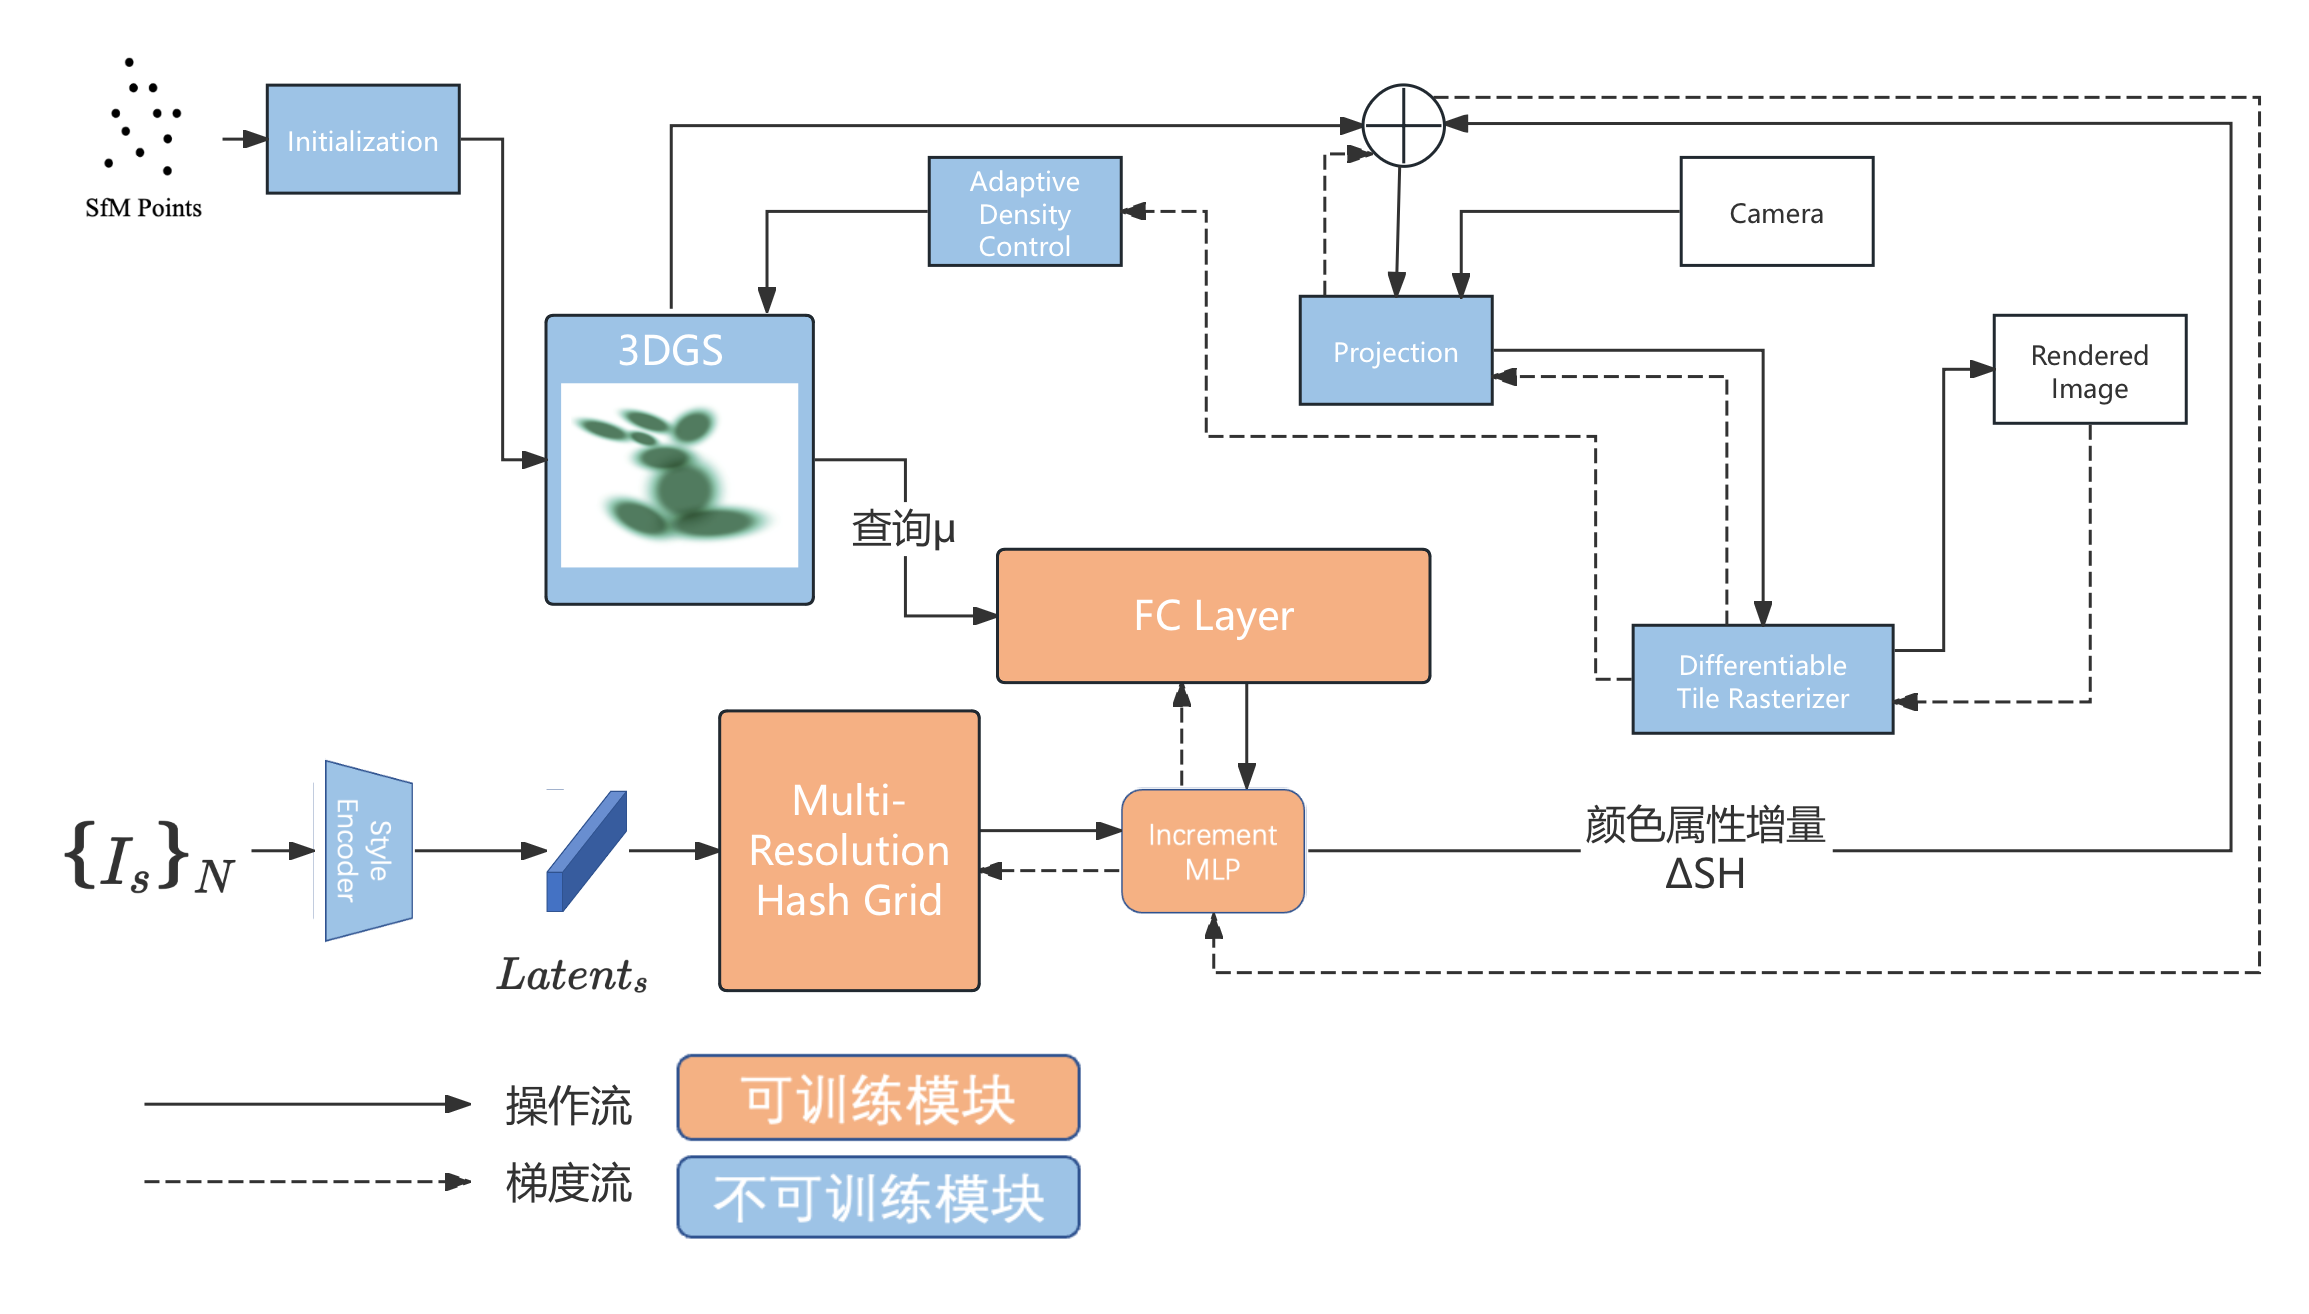
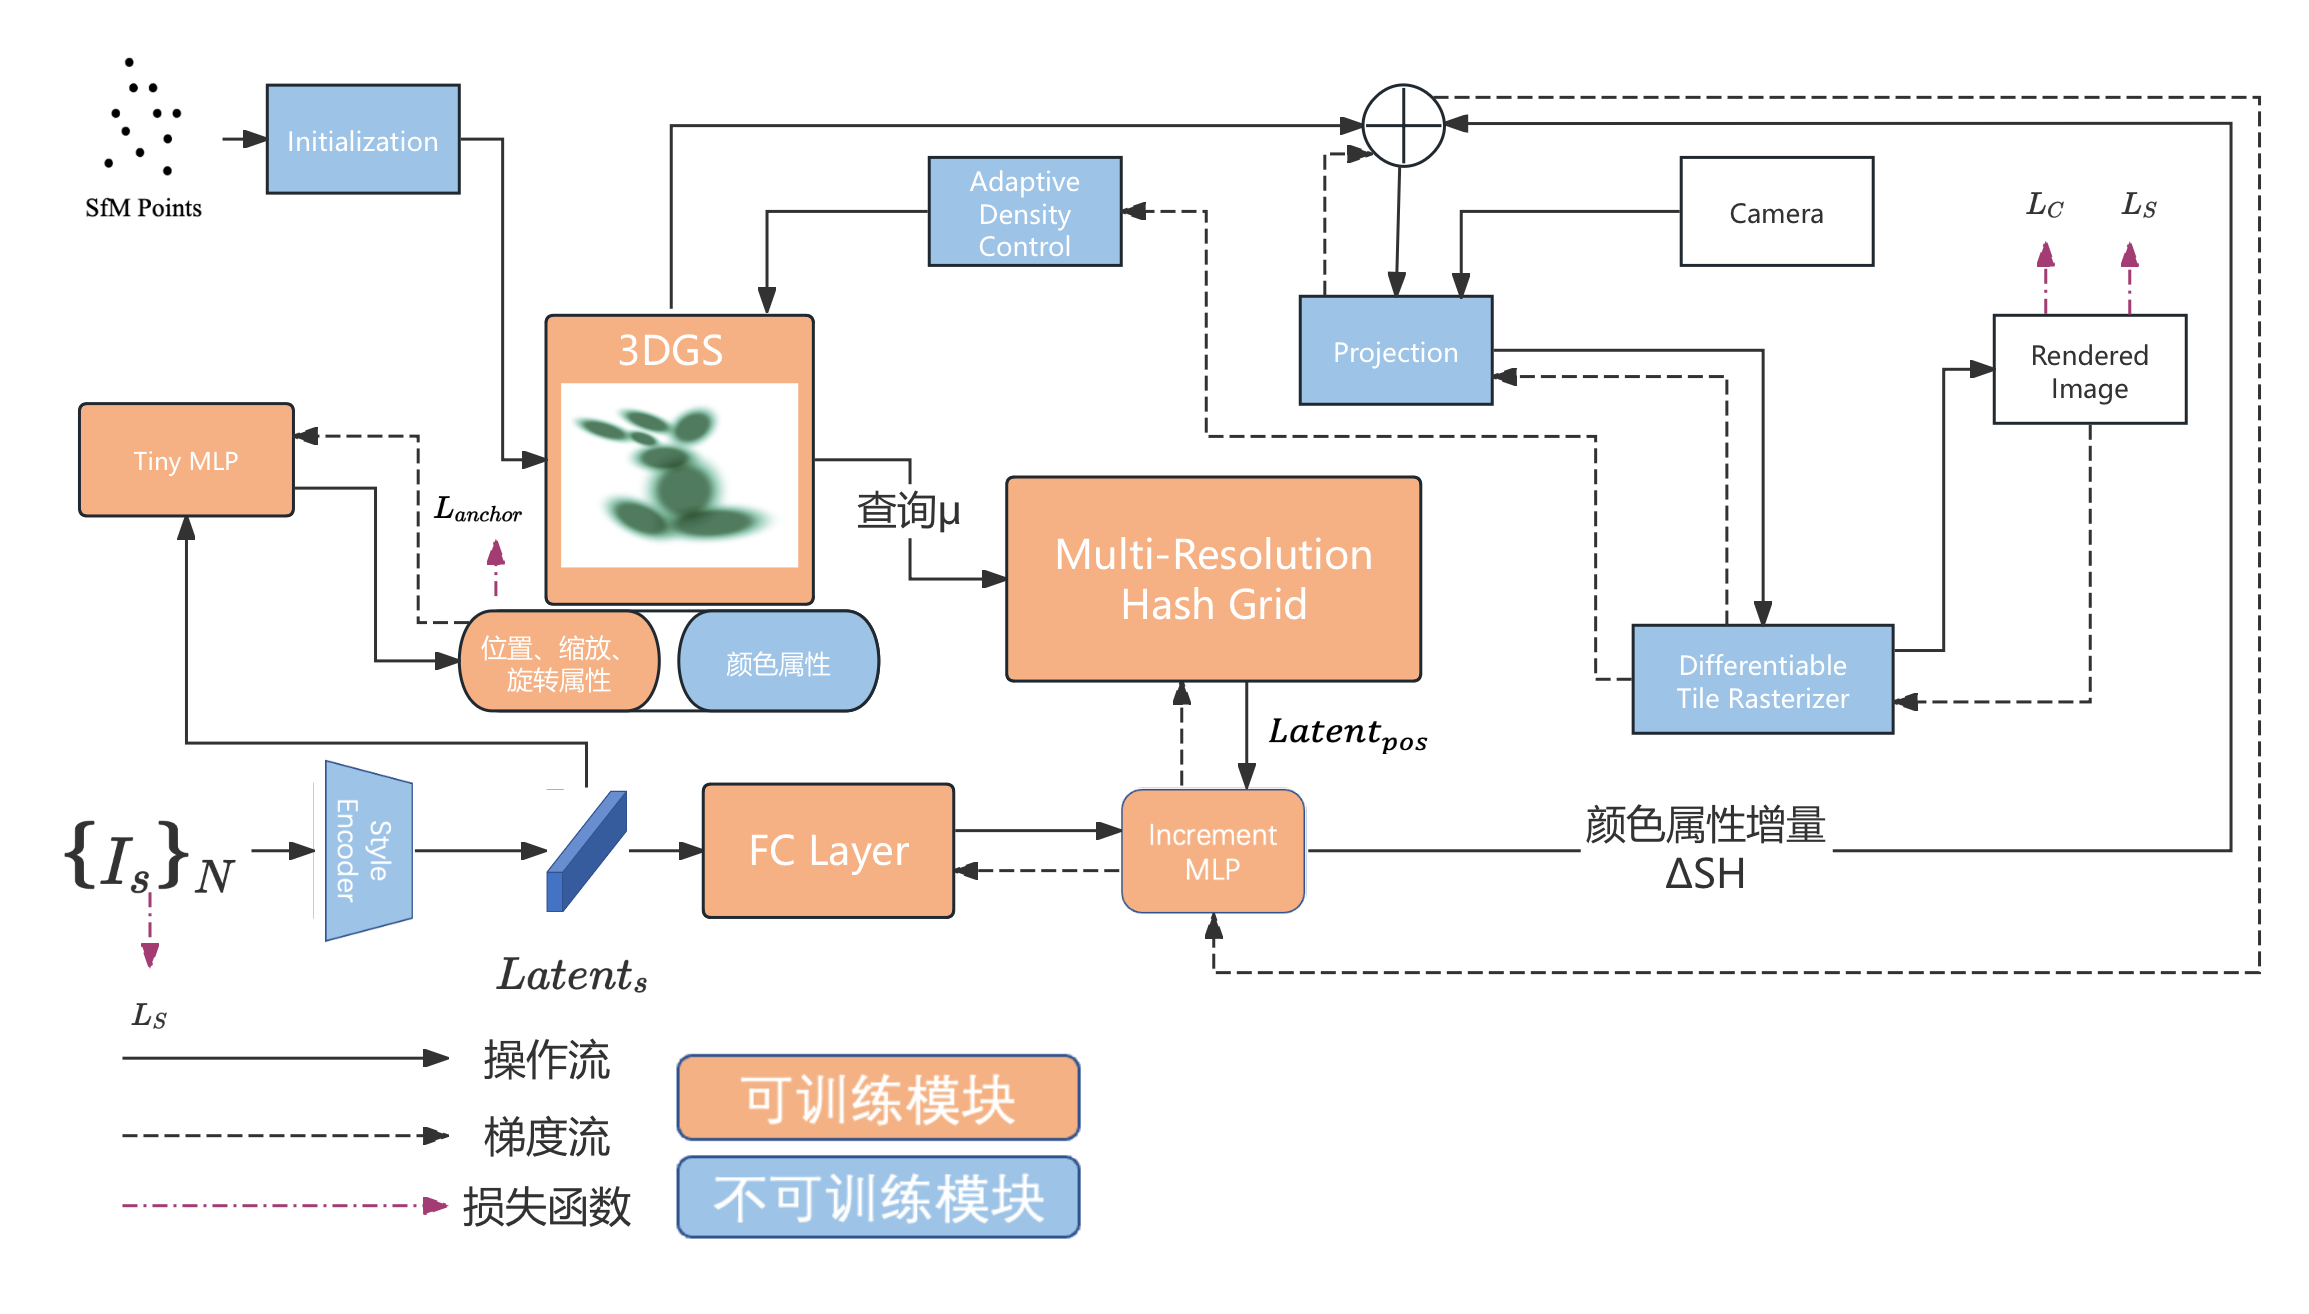
暂存一下。

diff --git a/page/graduate/abstract.tex b/page/graduate/abstract.tex
@@ -4,7 +4,7 @@
 \setlength{\parindent}{2em} 
 近年来，艺术风格迁移作为一种通过将风格注入到内容载体中来创建视觉上吸引人的图像的方法越来越受欢迎。风格迁移技术，作为一种将特定艺术风格应用到图像或视频内容中的技术，已经成为数字艺术创作的重要工具，风格迁移用途广泛，能应用到2D图像上，也可以应用到3D场景上。它允许艺术家和设计师将传统绘画、摄影及其他视觉艺术的风格应用到数字作品中，创造出独特的视觉效果。这种技术不仅丰富了艺术创作手段，也为艺术表达提供了新可能性。一个艺术风格图之所以能够被人眼鉴定为真，而生成的风格化结果不能，究其原因，在于现有的2D风格迁移方法不能在生成无伪影的高质量图像的同时充分兼顾如颜色，笔触，色调，纹理等艺术特征。与此同时，现有的3D场景风格迁移技术，均不同程度地存在一些问题：多视角一致性不够、对任意一个新风格图片都需要重新进行风格化训练、对算力要求较高、训练推理速度较慢等。针对上述问题，本文设计了一个新的2D图像任意风格迁移算法，并提出了一个支持不同风格迁移方法的零样本3D场景快速风格迁移方法。具体工作主要包括以下两个方面：
 \newline \indent（1）提出一种基于风格一致性实例归一化和对比学习的2D图像任意风格迁移算法。其中风格一致性实例归一化 (SCIN)模块用来捕获远程和非本地风格相关性。这可以将内容特征与风格特征对齐；基于实例的对比学习(ICL)方法用来学习风格化到风格化的关系并消除伪影；并且我们提出了一个新的感知编码器(PE)，它可以捕获风格信息，避免模型过多关注风格图像的显著分类特征。   
-\newline \indent（2）基于多分辨率哈希增量和可变3D高斯点的零样本三维场景风格迁移方法。该方法使用3DGS的表示作为场景的建模表示方法，以保障风格化的一致性，和利用它的实时渲染特性实现快速风格化。采用球谐函数的增量来表示高斯点的颜色变化量，并且使用多分辨率哈希网格来实现大量点的增量查询并缓解直接使用神经网络做变换导致的大显存占用问题。此外我们还依据高斯点的致密化论次对其进行分层，只选用外层的点进行颜色增量计算，减少了部分计算量的同时也实现了视觉效果的优化。
+\newline \indent（2）基于多分辨率哈希增量和可变3D高斯点的零样本三维场景风格迁移方法。该方法使用3DGS的表示作为场景的建模表示方法，以保障风格化的一致性，和利用它的实时渲染特性实现快速风格化。采用球谐函数的增量来表示高斯点的颜色变化量，并且使用多分辨率哈希网格来实现大量点的增量查询并缓解直接使用神经网络做变换导致的大显存占用问题。此外我们还依据高斯点的致密化论次对其进行分层，只选用外层的点进行位置增量计算，减少了部分计算量的同时也实现了视觉效果的优化。
 \newline
 {\addfontfeatures{FakeBold=2.0}\textbf{关键词:}}
 任意风格迁移；3D高斯飞溅；零样本推理；多分辨率哈希网格
